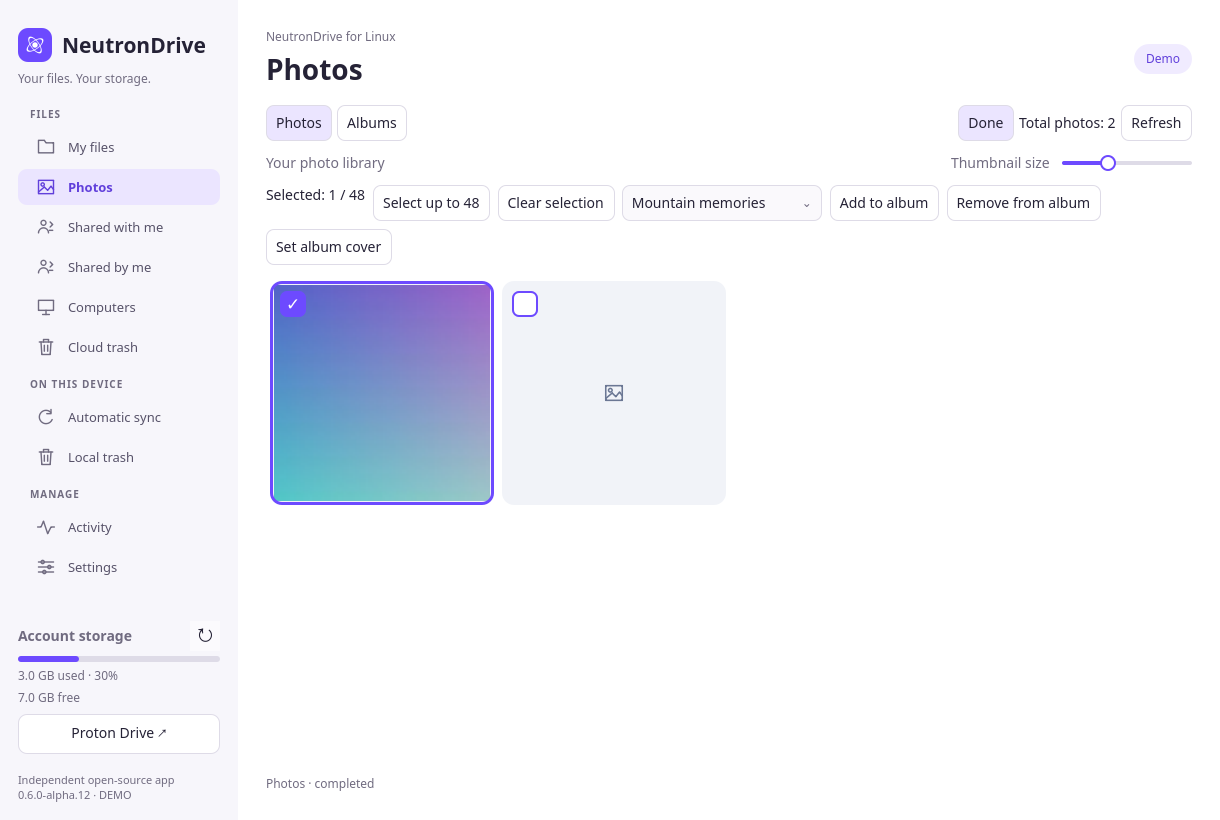
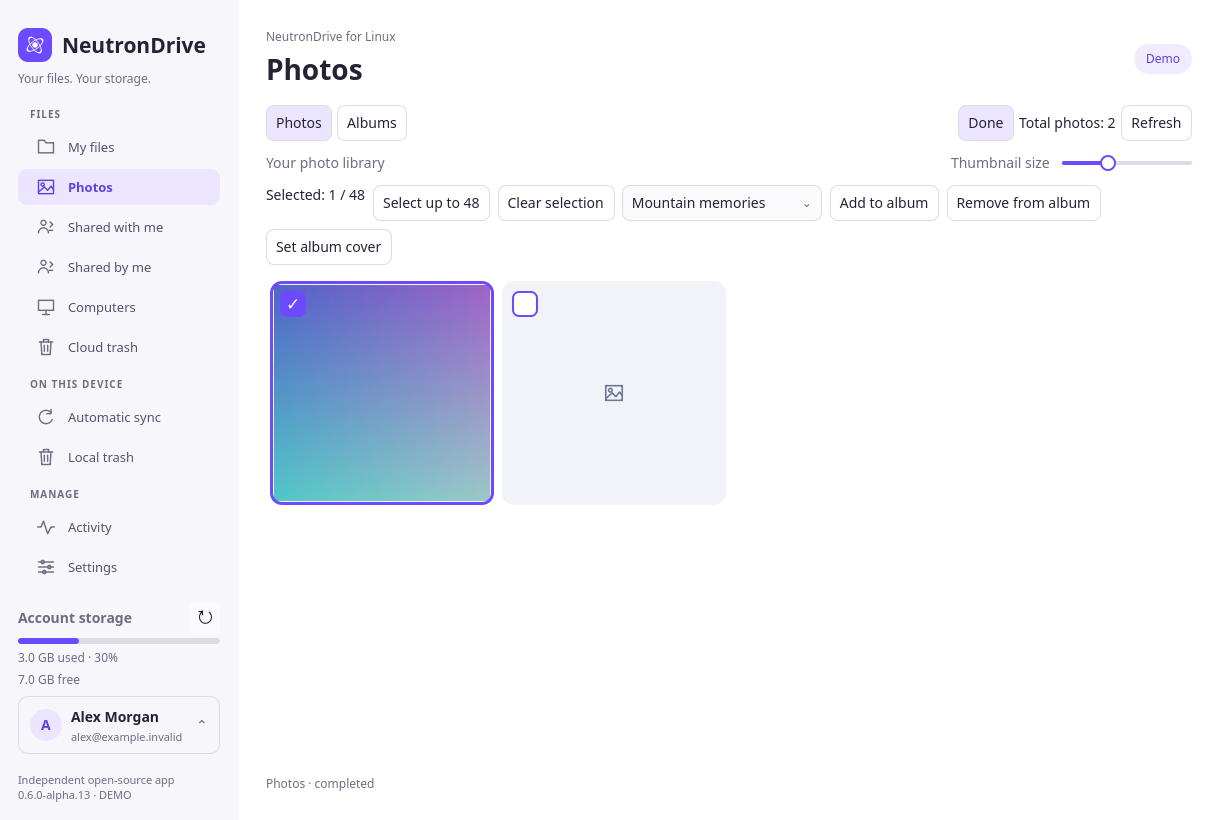
Finalize alpha13 release documentation, GUI captures and verified download pins

Changed region(s): [[0.0, 0.7317, 0.1869, 0.9146]]

diff --git a/README.md b/README.md
@@ -11,11 +11,11 @@ An independent, open-source **Linux desktop client for Proton Drive**. Browse yo
 cloud files, synchronize folders in the background, keep selected items offline,
 and manage photos, albums and sharing from a native Qt Quick interface.
 
-**Latest published version: [0.6.0 alpha11](https://github.com/SigmaCodez/NeutronDrive/releases/tag/v0.6.0-alpha11).**
-**Development preview: alpha12**, with faster cached browsing and Neutron favorite
-icons. Its changes and follow-up checks are tracked in [PR #11](https://github.com/SigmaCodez/NeutronDrive/pull/11).
-Alpha12 is not yet a published release. This is alpha software; keep an independent
-backup. Complete Windows/macOS feature parity has not been reached.
+**Latest published version: [0.6.0 alpha13](https://github.com/SigmaCodez/NeutronDrive/releases/tag/v0.6.0-alpha13).**
+This update improves photo scrolling, adds a signed-in account menu and includes
+file-manager browsing, favorite-icon and shutdown corrections from alpha12 development.
+This is alpha software; keep an independent backup. Complete Windows/macOS feature
+parity has not been reached.
 
 NeutronDrive is not affiliated with, endorsed by, or officially supported by
 Proton AG. It uses Proton's open-source SDK for account access, encryption and
@@ -23,13 +23,15 @@ service requests. The interface and icon are original.
 
 ## Light and dark appearance
 
-Fresh captures of the **alpha12 development GUI**, in English, using isolated
+Fresh captures of the **alpha13 release GUI**, in English, using isolated
 synthetic demo data. These are actual application renders, not mockups or a live
 account. [Capture version, timestamp and hashes](docs/GUI-PREVIEWS.json).
 
 ### Dark mode
 
 ![NeutronDrive file grid in dark mode](docs/previews/files-grid-dark.png)
+
+![Signed-in account menu in dark mode](docs/previews/account-menu-dark.png)
 
 ![NeutronDrive appearance settings in dark mode](docs/previews/settings-dark.png)
 
@@ -66,7 +68,11 @@ also lets you choose System, Light or Dark manually. Theme changes apply immedia
 - **Back up computer folders:** register a Linux computer through the SDK and
   synchronize selected folders under Proton Drive's Computers section.
 - **Manage photos:** a continuously scrolling timeline, total count, selection
-  overlays, image viewer, albums and location links to OpenStreetMap.
+  overlays, image viewer, albums and location links to OpenStreetMap. Incremental
+  tiles preserve scroll position, retain nearby previews and load pages ahead;
+  first-time previews still depend on the network.
+- **Manage your account:** the lower-left user menu opens Settings, the Proton
+  subscription dashboard, Proton Drive online and guarded sign-out.
 - **Share:** view incoming/outgoing shares, create public links and send confirmed
   email invitations. Supported native file managers expose sharing actions too.
 - **Keep working in the background:** close to tray, login autostart, availability
@@ -82,7 +88,7 @@ See [desktop features](docs/DESKTOP-FEATURES.md),
 ## Install
 
 Download from [GitHub Releases](https://github.com/SigmaCodez/NeutronDrive/releases).
-The commands below use the **published alpha11 assets**, not development artifacts.
+The commands below use the **published alpha13 assets**, not development artifacts.
 Packages are community alpha builds, not official Proton packages or store listings.
 
 | Format | Intended systems | Important details |
@@ -96,29 +102,29 @@ Packages are community alpha builds, not official Proton packages or store listi
 
 ```sh
 # Debian / Ubuntu (choose arm64 instead of amd64 if appropriate)
-sudo apt install ./neutrondrive_0.6.0-alpha11-1_amd64.deb
+sudo apt install ./neutrondrive_0.6.0-alpha13-1_amd64.deb
 
 # Fedora
-sudo dnf install ./neutrondrive-0.6.0-alpha11-fedora-x86_64.rpm
+sudo dnf install ./neutrondrive-0.6.0-alpha13-fedora-x86_64.rpm
 
 # openSUSE
-sudo zypper install ./neutrondrive-0.6.0-alpha11-opensuse-x86_64.rpm
+sudo zypper install ./neutrondrive-0.6.0-alpha13-opensuse-x86_64.rpm
 
 # Flatpak
 flatpak remote-add --user --if-not-exists flathub https://flathub.org/repo/flathub.flatpakrepo
-flatpak install --user ./neutrondrive-0.6.0a11-x86_64.flatpak
+flatpak install --user ./neutrondrive-0.6.0a13-x86_64.flatpak
 flatpak run io.github.SigmaCodez.NeutronDrive
 
 # Snap (unsigned alpha package)
-sudo snap install --dangerous ./neutrondrive_0.6.0-alpha11_amd64.snap
+sudo snap install --dangerous ./neutrondrive_0.6.0-alpha13_amd64.snap
 sudo snap connect neutrondrive:password-manager-service
 
 # AppImage
-chmod +x NeutronDrive-0.6.0-alpha11-x86_64.AppImage
-./NeutronDrive-0.6.0-alpha11-x86_64.AppImage
+chmod +x NeutronDrive-0.6.0-alpha13-x86_64.AppImage
+./NeutronDrive-0.6.0-alpha13-x86_64.AppImage
 
 # Arch: install the downloaded package with dependencies
-sudo pacman -U ./neutrondrive-bin-0.6.0alpha11-1-x86_64.pkg.tar.zst
+sudo pacman -U ./neutrondrive-bin-0.6.0alpha13-1-x86_64.pkg.tar.zst
 ```
 
 Verify downloads against the release's `SHA256SUMS`. Release evidence includes

diff --git a/docs/VALIDATION.md b/docs/VALIDATION.md
@@ -1,6 +1,21 @@
 # Validation record
 
-## Unreleased photo scrolling and account-menu changes (2026-10-25)
+## Alpha13 release validation
+
+[Full source, SDK and Linux package CI](https://github.com/SigmaCodez/NeutronDrive/actions/runs/40206351901)
+uses source commit `7902b20611f8738caa7cd6b0de716bedb8055c41`. The native jobs
+run 176 core unit tests, 71 desktop tests, 348 retained regressions, 22 SDK tests,
+TypeScript checking and actual GUI/service checks on x86_64 and ARM64.
+
+
+The initial full build caught four new account-menu keys missing from 23
+non-English/German catalogs. All 25 catalogs were completed; the dedicated
+localization regression tests then passed. The final full CI run, package
+provenance and actual release GUI captures are recorded in the release
+`BUILD_INFO.json`, `TEST_RESULTS.json` and [GUI-PREVIEWS.json](GUI-PREVIEWS.json).
+No live cloud mutation or live-photo network benchmark is claimed.
+
+## Local development checks for alpha13 (2026-10-25)
 
 Local validation passed 71 desktop Rust tests, Clippy for all targets with warnings
 denied, the native application build, and nine SDK library-command tests (23
@@ -13,16 +28,16 @@ visible delegate and scroll position. This checks incremental rendering, not
 real-account network throughput or a full thumbnail-decoding benchmark. The
 dark account menu was also visually inspected from an application-generated
 capture with synthetic identity. No live logout or subscription change was
-performed. These changes have not yet been packaged or installed; their results
-do not describe the installed alpha12 local1 package below.
+performed. These local checks preceded packaging and do not describe the older alpha12
+local1 package below. The release checks are recorded separately.
 
-## Current status: alpha11 release and alpha12 development
+## Historical alpha11 release and alpha12 local development
 
-The latest published release is [alpha11](https://github.com/SigmaCodez/NeutronDrive/releases/tag/v0.6.0-alpha11).
+The preceding published release was [alpha11](https://github.com/SigmaCodez/NeutronDrive/releases/tag/v0.6.0-alpha11).
 Its release assets include BUILD_INFO.json, TEST_RESULTS.json, provenance and
 SHA256SUMS. The records below describe their stated versions, not every later build.
 
-Alpha12 is development work in [PR #11](https://github.com/SigmaCodez/NeutronDrive/pull/11).
+Alpha12 development work was tracked in [PR #11](https://github.com/SigmaCodez/NeutronDrive/pull/11).
 The initial alpha12 [full CI run](https://github.com/SigmaCodez/NeutronDrive/actions/runs/40193814097)
 passed both native architectures and all Linux package jobs. A subsequent live
 Nautilus shutdown test found a provider-lifetime bug; its correction adds a

diff --git a/docs/DESKTOP-FEATURES.md b/docs/DESKTOP-FEATURES.md
@@ -1,6 +1,6 @@
 # Desktop features
 
-The latest published package is alpha11; alpha12 development work is tracked in
+The latest published package is alpha13; its changes are tracked in
 [PR #11](https://github.com/SigmaCodez/NeutronDrive/pull/11). The sections below
 identify when features were introduced.
 Upgrade the complete application package; older bridges do not contain all
@@ -8,7 +8,7 @@ photo-library, album and account-storage commands.
 
 ## Files and sync
 
-### Account menu (unreleased)
+### Account menu (alpha13)
 
 The lower-left account button displays the signed-in user's display name and,
 when available, email address. Its themed menu opens Settings, the Proton
@@ -41,7 +41,7 @@ certify tray support in every desktop/environment combination.
 ## Photos and albums (alpha9)
 
 Photos inventories the timeline once and displays the total count. Scrolling
-loads metadata and JPEG previews in batches of up to 48. The unreleased scrolling
+loads metadata and JPEG previews in batches of up to 48. The alpha13 scrolling
 update preserves grid delegates and scroll position, separates thumbnail updates
 from service/status updates, and requests the next page before reaching the end.
 Page loading retains up to 96 thumbnail payloads; preview refresh retains a

diff --git a/packaging/README.md b/packaging/README.md
@@ -16,7 +16,7 @@ python3 scripts/build-backend --help
 ```
 
 The current SDK bridge and application packages are published together in
-`v0.6.0-alpha11`. Source builds are inspectable; bit-for-bit reproducibility
+`v0.6.0-alpha13`. Source builds are inspectable; bit-for-bit reproducibility
 across arbitrary build hosts is not claimed.
 
 ## Requirements and coverage
@@ -146,7 +146,7 @@ an expendable Ubuntu 24.04 build environment; CI uses a disposable runner.
 
 ```sh
 python3 scripts/build-snap
-sudo snap install --dangerous dist/neutrondrive_0.6.0-alpha11_amd64.snap
+sudo snap install --dangerous dist/neutrondrive_0.6.0-alpha13_amd64.snap
 sudo snap connect neutrondrive:password-manager-service
 neutrondrive
 ```
@@ -255,6 +255,6 @@ makepkg --syncdeps
 
 This recipe has no Python runtime dependencies and verifies the original DEB's
 frontend and SDK provenance before creating its local source/checksum entries.
-The published `packaging/aur/neutrondrive-bin` recipe pins the alpha11 native
+The published `packaging/aur/neutrondrive-bin` recipe pins the alpha13 native
 DEBs and uses the same runtime dependency set as the tested Arch package.
 No AUR account creation or publication is performed by either workflow.

diff --git a/packaging/appimage/README.md b/packaging/appimage/README.md
@@ -16,14 +16,14 @@ No musl/Alpine or 32-bit support is claimed. ARM64 users can use the native pack
 ## Run
 
 ```sh
-chmod +x NeutronDrive-0.6.0-alpha11-x86_64.AppImage
-./NeutronDrive-0.6.0-alpha11-x86_64.AppImage
+chmod +x NeutronDrive-0.6.0-alpha13-x86_64.AppImage
+./NeutronDrive-0.6.0-alpha13-x86_64.AppImage
 ```
 
 If the system cannot mount AppImages, extract and run without FUSE:
 
 ```sh
-./NeutronDrive-0.6.0-alpha11-x86_64.AppImage --appimage-extract
+./NeutronDrive-0.6.0-alpha13-x86_64.AppImage --appimage-extract
 ./squashfs-root/AppRun
 ```
 
@@ -46,7 +46,7 @@ The application is not sandboxed by AppImage.
 
 ## Sources and notices
 
-The application, bridge and pinned Qt source archives are provided by the alpha11
+The application, bridge and pinned Qt source archives are provided by the alpha13
 release. Ubuntu copyright notices and exact binary/source package versions are
 included in `usr/share/doc/ubuntu-runtime` and
 `usr/share/doc/neutrondrive/ubuntu-runtime-packages.tsv`. This manifest records the full Ubuntu build environment; not every listed package

diff --git a/docs/FILE-MANAGER-INTEGRATION.md b/docs/FILE-MANAGER-INTEGRATION.md
@@ -114,7 +114,7 @@ listed desktop/distribution have not been tested.
 
 ## Alpha12 development: content probes and favorite icons
 
-These changes are under development in [PR #11](https://github.com/SigmaCodez/NeutronDrive/pull/11); they are not part of the published alpha11 packages.
+These corrections are included in alpha13, together with the photo-scrolling and account-menu changes in [PR #11](https://github.com/SigmaCodez/NeutronDrive/pull/11).
 
 GLib may open files with `O_NOATIME` to guess their content type while listing a
 folder. Previously this optional operation could wait behind cloud requests,

diff --git a/packaging/aur/README.md b/packaging/aur/README.md
@@ -1,6 +1,6 @@
 # Arch Linux / Manjaro package
 
-`neutrondrive-bin` repackages the alpha11 NeutronDrive DEBs with fixed SHA256
+`neutrondrive-bin` repackages the alpha13 NeutronDrive DEBs with fixed SHA256
 checksums, preserving the bundled Qt runtime, Rust core, bridge, language catalogs
 and native D-Bus/systemd files. Host dependencies are resolved by pacman. It does
 not run account, autostart or synchronization commands during installation.
